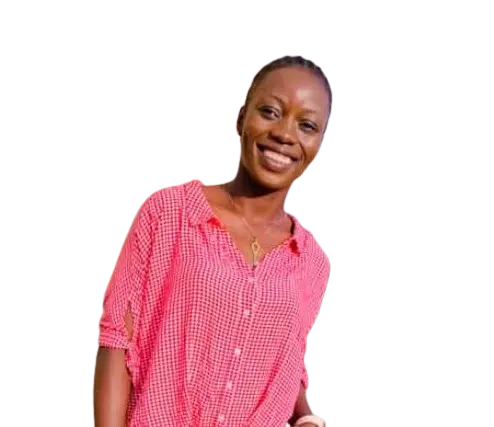
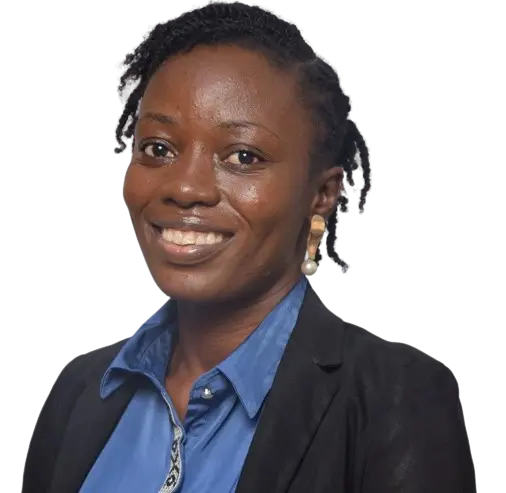
added testimonials

diff --git a/src/app/(others)/services/_components/Testimonials.tsx b/src/app/(others)/services/_components/Testimonials.tsx
@@ -1,21 +1,27 @@
-import { Anu1, Omowunmi, Quotes } from "@/assets";
+import { Anu1, Danisa, Omowunmi, Quotes, Ututo } from "@/assets";
 import TestimonialSlider from "./TestimonialSlider";
 import Image from "next/image";
 const data = [
   {
     id: "1",
     img: Omowunmi.src,
-    text: "I remember joining the early years learning mentorship community last year, with little or no idea about what early years was all about, I kept following every of the free whatsapp discussions and webinars and I personally loved that each of this session took me from the beginner stage to an intermediate stage, I wouldn't want to say advance but at least the stage the class took me gave me a better paying job in a more conducive setting , you needed to see me in my interview talking about the stages of early years and all, I sincerely didn't have to read for the interview because I believed what I got from the training sessions with Mrs Michael-Ayeni were best practices and to think they all came in for free🥲. I really appreciate Mrs Ayeni and can never forget this in a jiffy.",
+    text: "I joined the mentorship community last year, with little or no idea about what early years was all about, I kept following the WhatsApp discussions and webinars and I loved that each of session were enlightening. I was also able to get a better paying job in a more conducive setting. The confidence I had at the interview talking about the stages of development in the early years were all because of the training sessions with Mrs Michael-Ayeni and to think they all came in for free🥲. I really appreciate Mrs Ayeni and can never forget this in a jiffy. ",
+    author: "Miss Omowunmi",
+    place: "Member of Mentorship Community",
   },
   {
     id: "2",
-    img: Anu1.src,
-    text: "Early Years Learning Ng. has been a game-changer for my child's education. The personalized attention and innovative teaching methods have sparked a love for learning in my child that I had not seen before. The resources and guidance provided by their team are top-notch.",
+    img: Danisa.src,
+    text: "Mrs. Ayeni is a trained,  passionate, and seasoned Early Childhood Educator. I had the opportunity to witness firsthand her contribution and impact to the education ecosystem when she trained the teaching staff at the academic institution I preside over. Till date, the tools she taught and shared with my team are still very instrumental to curriculum formation and teachers' capacity development at our school.",
+    author: "Mr Danisa",
+    place: "School Owner",
   },
   {
     id: "3",
-    img: Anu1.src,
-    text: " As a parent, I feel more equipped and confident in supporting my child's educational journey. I am grateful for their unwavering commitment to early education excellence. Early Years Learning Ng. has been a game-changer for my child's education. The personalized attention and innovative teaching methods have sparked a love for learning in my child that I had not seen before. The resources and guidance provided by their team are top-notch. As a parent, I feel more equipped and confident in supporting my child's educational journey. I am grateful for their unwavering commitment to early education excellence",
+    img: Ututo.src,
+    text: "I was glad I signed up for the Teach Your Child to Read phonics course for parents, the course was extremely well-planned with engaging materials and live sessions. What impressed me the most about this course is the engaging session with the tutor, it was also a chance for me to learn phonics too. I’ve never learned phonics as a child so I benefited from the lessons as well.",
+    author: "Mrs Ututo",
+    place: "Parent",
   },
 ];
 const Testimonials = () => {

diff --git a/src/app/(others)/services/_components/TestimonialSlider.tsx b/src/app/(others)/services/_components/TestimonialSlider.tsx
@@ -9,6 +9,8 @@ interface TestimonialSlider {
   id: string;
   img: string | StaticImageData;
   text: string;
+  author: string;
+  place: string;
 }
 
 interface TestimonialSliderProps {
@@ -23,13 +25,13 @@ const TestimonialSlider: React.FC<TestimonialSliderProps> = ({ slides }) => {
 
     timer = setInterval(() => {
       nextSlide();
-    }, 7000);
+    }, 12000);
 
     return () => {
       clearInterval(timer);
     };
     // eslint-disable-next-line react-hooks/exhaustive-deps
-  }, []);
+  }, [currentSlide]);
 
   // eslint-disable-next-line react-hooks/exhaustive-deps
   const nextSlide = useCallback(() => {
@@ -52,17 +54,25 @@ const TestimonialSlider: React.FC<TestimonialSliderProps> = ({ slides }) => {
           className={`slide ${index === currentSlide ? "active" : ""}`}
         >
           <div className="flex flex-col md:flex-row items-center gap-10">
-            <p className="text-center md:text-right max-w-[500px] md:max-w-[600px]">
+            <p className="text-center md:flex-[2] md:text-right max-w-[500px] md:max-w-[600px]">
               {slide.text}
             </p>
-            <Image
-              src={slide.img}
-              alt="Author's image"
-              width={160}
-              height={160}
-              className="rounded-full -order-1 md:order-1"
-              style={{ width: "160px", height: "160px" }}
-            />
+            <div className="flex flex-col items-center gap-3 md:flex-1">
+              <Image
+                src={slide.img}
+                alt="Author's image"
+                width={160}
+                height={160}
+                className="rounded-full -order-1 md:order-1"
+                style={{ width: "160px", height: "160px" }}
+              />
+              <p className="leading-4 font-bold order-1 text-center text-purple-dark">
+                {slide.author}
+              </p>
+              <small className="order-1 font-semibold -mt-4 text-center">
+                {slide.place}
+              </small>
+            </div>
           </div>
         </div>
       ))}

diff --git a/src/app/(others)/services/training-and-consultation/page.tsx b/src/app/(others)/services/training-and-consultation/page.tsx
@@ -1,6 +1,13 @@
 import { Metadata } from "next";
 
-import { Consultation } from "@/assets";
+import {
+  Consultation,
+  Training1,
+  Training2,
+  Training3,
+  Training4,
+  Training5,
+} from "@/assets";
 import HeroBanner from "@/components/HeroBanner";
 import BreadCrumbs from "../_components/BreadCrumbs";
 import Button from "@/components/form/Button";
@@ -13,6 +20,34 @@ export const metadata: Metadata = {
   description:
     " We organise a series of Workshops and Webinars for early years educators and parents every year. Individuals can sign up for any of our workshops for the year or book a one to one consultation session.",
 };
+
+const data = [
+  {
+    img: Training5,
+    lead: "Onboarding Session",
+    text: "Conducting an onboarding session to the new team at Mini Treasures Preparatory School, Lagos. To familiarise new staff members with the school policies and procedures.",
+  },
+  {
+    img: Training1,
+    lead: "School Training Session",
+    text: "Facilitating a training session at Mary Rose School Lagos.",
+  },
+  {
+    img: Training3,
+    lead: "Live Training Session",
+    text: "A virtual training session for members of the Free Mentorship Community.",
+  },
+  {
+    img: Training2,
+    lead: "Mentorship Session",
+    text: "After a training session at Progressive Steps School, Lagos, I had a one to one mentorship session with some teachers in the early years and key stage one.",
+  },
+  {
+    img: Training4,
+    lead: "In-house Training",
+    text: "Facilitating a training session with colleagues in the Foundation Stage section as a staff of Children's International School, Lagos.",
+  },
+];
 
 const TrainingAndConsultation = () => {
   return (
@@ -64,7 +99,7 @@ const TrainingAndConsultation = () => {
       <Calendar />
       <ForSchools />
 
-      <TrainingGallery title="Training Gallery" />
+      <TrainingGallery title="Training Gallery" data={data} />
     </div>
   );
 };

diff --git a/src/app/(others)/services/training-and-consultation/_components/TrainingGallery.tsx b/src/app/(others)/services/training-and-consultation/_components/TrainingGallery.tsx
@@ -1,48 +1,6 @@
-import {
-  TrainingGal1,
-  TrainingGal2,
-  TrainingGal3,
-  TrainingGal4,
-  TrainingGal5,
-  TrainingGal6,
-} from "@/assets";
-
 import ScrollGallery from "../../_components/ScrollGallery";
 
-const data = [
-  {
-    img: TrainingGal1,
-    lead: "Dress Up",
-    text: "Being an early years practitioner affords me the opportunity to dress up and be different characters in order to bring our learning to life.",
-  },
-  {
-    img: TrainingGal2,
-    lead: "SEN Awards - Most Inclusive Teacher",
-    text: "In 2021, The SEN Department of Meadow Hall School awarded me as the most Inclusive Teacher in the EYFS section.",
-  },
-  {
-    img: TrainingGal3,
-    lead: "Virtual Classroom",
-    text: "Here is one of the welcome boards I created for my virtual class during the Lockdown.",
-  },
-  {
-    img: TrainingGal4,
-    lead: "Book Club",
-    text: "I run book clubs in schools to develop reading skills and interest in young learners.",
-  },
-  {
-    img: TrainingGal5,
-    lead: "Math Activity",
-    text: "My lessons are always practical and engaging for my learners.",
-  },
-  {
-    img: TrainingGal6,
-    lead: "Outdoor Learning",
-    text: "Through outdoor learning I ensure that all my learners are engaged and participate actively in learning activities.",
-  },
-];
-
-const TrainingGallery = ({ title }: { title: string }) => {
+const TrainingGallery = ({ title, data }: { title: string; data: any[] }) => {
   return (
     <div className="bg-purple-light py-20 mt-20">
       <h2 className="text-center">{title}</h2>

diff --git a/src/app/(others)/about-me/_component/PhotoGallery.tsx b/src/app/(others)/about-me/_component/PhotoGallery.tsx
@@ -1,0 +1,48 @@
+import {
+  TrainingGal1,
+  TrainingGal2,
+  TrainingGal3,
+  TrainingGal4,
+  TrainingGal5,
+  TrainingGal6,
+} from "@/assets";
+import TrainingGallery from "../../services/training-and-consultation/_components/TrainingGallery";
+
+const data = [
+  {
+    img: TrainingGal1,
+    lead: "Dress Up",
+    text: "Being an early years practitioner affords me the opportunity to dress up and be different characters in order to bring our learning to life.",
+  },
+  {
+    img: TrainingGal2,
+    lead: "SEN Awards - Most Inclusive Teacher",
+    text: "In 2021, The SEN Department of Meadow Hall School awarded me as the most Inclusive Teacher in the EYFS section.",
+  },
+  {
+    img: TrainingGal3,
+    lead: "Virtual Classroom",
+    text: "Here is one of the welcome boards I created for my virtual class during the Lockdown.",
+  },
+  {
+    img: TrainingGal4,
+    lead: "Book Club",
+    text: "I run book clubs in schools to develop reading skills and interest in young learners.",
+  },
+  {
+    img: TrainingGal5,
+    lead: "Math Activity",
+    text: "My lessons are always practical and engaging for my learners.",
+  },
+  {
+    img: TrainingGal6,
+    lead: "Outdoor Learning",
+    text: "Through outdoor learning I ensure that all my learners are engaged and participate actively in learning activities.",
+  },
+];
+
+const PhotoGallery = () => {
+  return <TrainingGallery data={data} title="Photo Gallery" />;
+};
+
+export default PhotoGallery;

diff --git a/src/assets/index.ts b/src/assets/index.ts
@@ -43,12 +43,26 @@ import Conversations from "@/assets/images/conversations.webp";
 import EYFS_Bootcamp from "@/assets/images/eyfs-bootcamp.webp";
 import Omowunmi from "@/assets/images/omo.webp";
 import NotFound from "@/assets/images/404.webp";
+import Training1 from "@/assets/images/training-1.webp";
+import Training2 from "@/assets/images/training-2.webp";
+import Training3 from "@/assets/images/training-3.webp";
+import Training4 from "@/assets/images/training-4.webp";
+import Training5 from "@/assets/images/training-5.webp";
+import Danisa from "@/assets/images/dan.webp";
+import Ututo from "@/assets/images/utu.webp";
 
 export {
   Logo_White,
   BG_Colors,
   Bar_Vert,
   AnuHome,
+  Ututo,
+  Danisa,
+  Training1,
+  Training2,
+  Training3,
+  Training4,
+  Training5,
   Conversations,
   EYFS_Bootcamp,
   Omowunmi,

diff --git a/src/app/(others)/about-me/page.tsx b/src/app/(others)/about-me/page.tsx
@@ -7,6 +7,7 @@ import TrainingGallery from "../services/training-and-consultation/_components/T
 import MyJourney from "./_component/MyJourney";
 import WorkExperience from "./_component/WorkExperience";
 import MCEComponent from "./_component/MCE";
+import PhotoGallery from "./_component/PhotoGallery";
 
 export const metadata: Metadata = {
   title: "About",
@@ -77,7 +78,8 @@ const AboutPage = () => {
       <MyJourney />
       <WorkExperience />
       <MCEComponent />
-      <TrainingGallery title="Photo Gallery" />
+      <PhotoGallery />
+      {/* <TrainingGallery title="Photo Gallery" /> */}
     </section>
   );
 };
